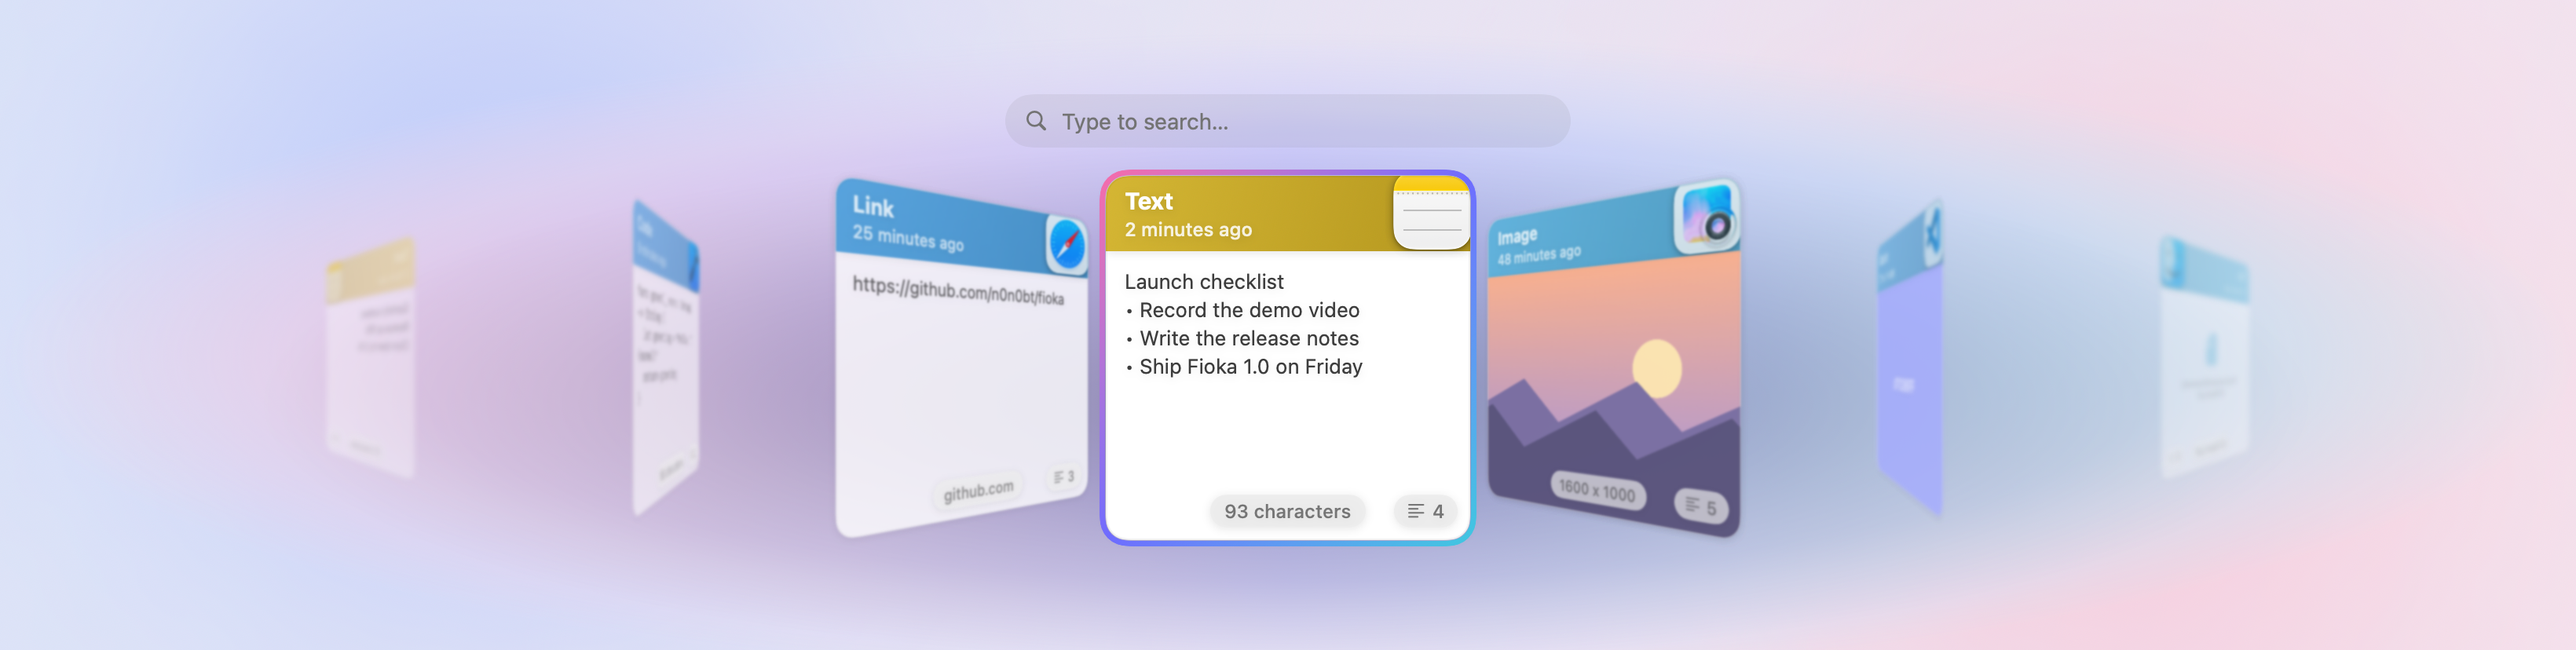
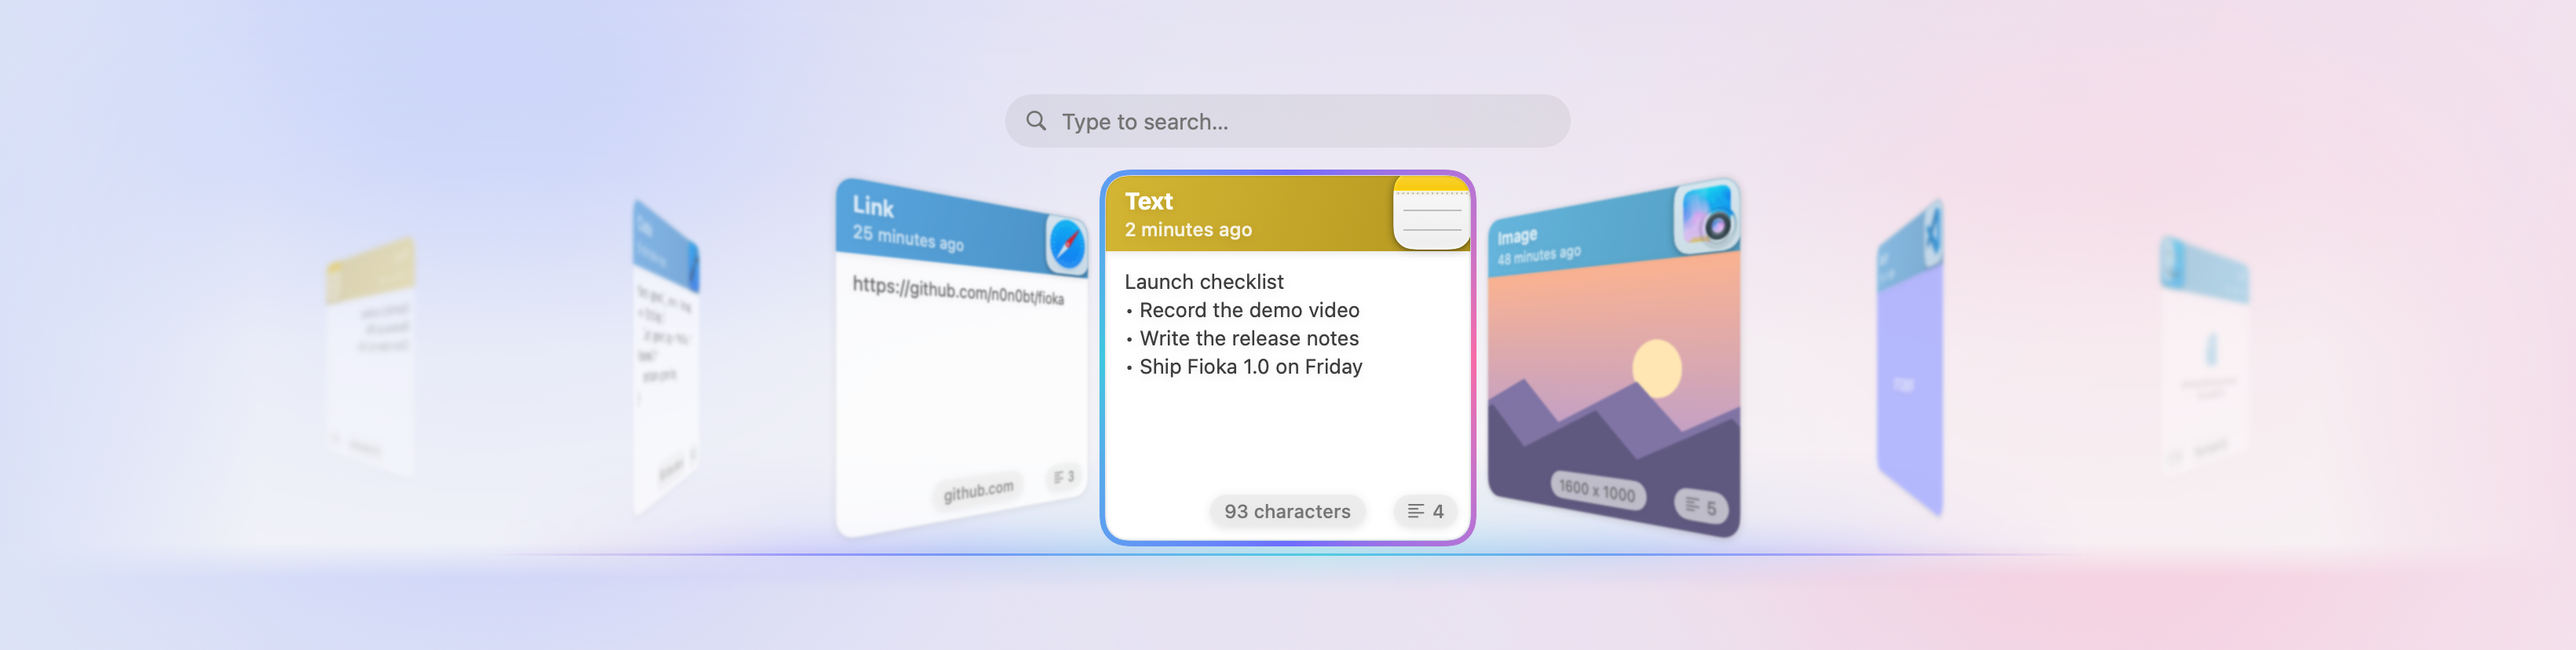
A shelf of light instead of a blob behind the drum; cards fan out on open
The drum's backdrop was an ellipse of frost and tint, which read as a
shape over whatever was behind. Now: a frost rising from the window's
bottom, and under the cards a thin line of light in the brand colours,
drifting slowly along it.

On open, the cards fan out from the front one, nearer cards first. The
selection ring's gradient turns slowly. The website's drum gets the same
shelf and ring.

Changed region(s): [[0.0933, 0.1812, 0.9329, 0.9662]]

diff --git a/Fioka/Views/DrumGlowView.swift b/Fioka/Views/DrumGlowView.swift
@@ -1,58 +1,120 @@
 import SwiftUI
 
-/// What sits behind the revolver: no panel, but a frosted backdrop that is
-/// solid behind the cards and fades to nothing before the window's edges on
-/// every side, tinted with the logo's colours. It calms whatever is behind
-/// (text, windows) without drawing a box.
+/// What sits behind the revolver. No panel and no shapes: a frost that rises
+/// from the bottom of the window and thins out upwards, and under the cards a
+/// thin line of light in the logo's colours, like a lit glass shelf, whose
+/// colours drift slowly along it.
 ///
-/// Elliptical gradient masks rather than blurred shapes: a blur spills past
-/// the window and its frame cuts it in a straight line; a mask that reaches
-/// clear at the frame's edge cannot. An `EllipticalGradient`'s locations run
-/// from the centre (0) to the frame's edge (1).
+/// Everything fades to clear before the window's edges, so nothing ends in a
+/// line where the window frame cuts it.
 struct DrumGlowView: View {
   /// Off-screen renders (the README and website images) get a painted frost:
   /// NSVisualEffectView blurs what is behind the window, so it draws nothing
-  /// in ImageRenderer.
+  /// in ImageRenderer. They also hold still.
   var painted = false
 
-  /// Fully opaque out to here, then fading to clear at the edge.
-  private static func fade(solidUntil solid: Double) -> some View {
-    EllipticalGradient(
+  @Environment(\.colorScheme) private var colorScheme
+  @State private var drifting = false
+
+  /// How far above the window's bottom the shelf runs: just under the front
+  /// card, whose bottom is CardCarouselView.bottomPadding up.
+  private static let shelfInset: CGFloat = CardCarouselView.bottomPadding - 10
+
+  var body: some View {
+    GeometryReader { geometry in
+      let width = min(geometry.size.width * 0.62, 1100)
+      ZStack(alignment: .bottom) {
+        frost
+          .mask { Self.rising }
+        shelf(width: width)
+          .padding(.bottom, Self.shelfInset)
+      }
+      .frame(width: geometry.size.width, height: geometry.size.height)
+    }
+    .allowsHitTesting(false)
+    .onAppear {
+      guard !painted else { return }
+      withAnimation(.easeInOut(duration: 10).repeatForever(autoreverses: true)) {
+        drifting = true
+      }
+    }
+  }
+
+  /// Clear at the top, solid from a little below the middle down; clear in
+  /// the last few points and at both sides.
+  private static var rising: some View {
+    LinearGradient(
       stops: [
-        .init(color: .black, location: 0),
-        .init(color: .black, location: solid),
-        .init(color: .black.opacity(0.7), location: (solid + 1) / 2),
+        .init(color: .clear, location: 0),
+        .init(color: .black.opacity(0.3), location: 0.3),
+        .init(color: .black.opacity(0.85), location: 0.6),
+        .init(color: .black, location: 0.94),
         .init(color: .clear, location: 1)
       ],
-      center: .init(x: 0.5, y: 0.55)
+      startPoint: .top,
+      endPoint: .bottom
+    )
+    .mask { sides(edge: 0.1) }
+  }
+
+  private static func sides(edge: Double) -> some View {
+    LinearGradient(
+      stops: [
+        .init(color: .clear, location: 0),
+        .init(color: .black, location: edge),
+        .init(color: .black, location: 1 - edge),
+        .init(color: .clear, location: 1)
+      ],
+      startPoint: .leading,
+      endPoint: .trailing
     )
   }
 
-  var body: some View {
-    ZStack {
-      // Frosted glass, as macOS's own panels use, fading out at the rim.
-      Group {
-        if painted {
-          Color(white: 0.97).opacity(0.86)
-        } else {
-          VisualEffectView(material: .popover, blendingMode: .behindWindow, state: .active)
-        }
-      }
-      .mask { Self.fade(solidUntil: 0.55) }
-
-      // The logo's colours over it.
-      LinearGradient(colors: [Brand.pink, Brand.violet, Brand.cyan], startPoint: .leading, endPoint: .trailing)
-        .opacity(0.4)
-        .mask { Self.fade(solidUntil: 0.38) }
-
-      // A soft shadow under the cards, so they lift off the frost.
-      EllipticalGradient(
-        stops: [.init(color: .black.opacity(0.28), location: 0), .init(color: .clear, location: 0.8)],
-        center: .init(x: 0.5, y: 0.62)
-      )
+  @ViewBuilder
+  private var frost: some View {
+    if painted {
+      Color(white: 0.97).opacity(0.8)
+    } else {
+      VisualEffectView(material: .popover, blendingMode: .behindWindow, state: .active)
     }
-    .frame(maxWidth: 1700, maxHeight: .infinity)
-    .frame(maxWidth: .infinity, maxHeight: .infinity)
-    .allowsHitTesting(false)
+  }
+
+  /// The logo's colours, twice over so they can slide along the line without
+  /// running out, fading in from both ends.
+  private func colours(width: CGFloat) -> some View {
+    LinearGradient(
+      colors: [Brand.pink, Brand.violet, Brand.cyan, Brand.violet, Brand.pink, Brand.violet, Brand.cyan],
+      startPoint: .leading,
+      endPoint: .trailing
+    )
+    .frame(width: width * 2)
+    .offset(x: drifting ? -width * 0.35 : width * 0.35)
+    .frame(width: width)
+    .clipped()
+    .mask { Self.sides(edge: 0.3) }
+  }
+
+  private func shelf(width: CGFloat) -> some View {
+    let dark = colorScheme == .dark
+    return ZStack(alignment: .bottom) {
+      // A faint wash of the same colours rising from the line.
+      colours(width: width)
+        .frame(height: 70)
+        .mask {
+          LinearGradient(colors: [.clear, .black], startPoint: .top, endPoint: .bottom)
+        }
+        .opacity(dark ? 0.22 : 0.16)
+      // The glow around the line.
+      colours(width: width)
+        .frame(height: 8)
+        .blur(radius: 10)
+        .opacity(dark ? 0.9 : 0.7)
+        .offset(y: 3)
+      // The line itself.
+      colours(width: width)
+        .frame(height: 1.5)
+        .opacity(dark ? 1 : 0.85)
+    }
+    .frame(width: width, height: 90, alignment: .bottom)
   }
 }

diff --git a/docs/style.css b/docs/style.css
@@ -222,18 +222,53 @@ h1 {
 }
 .js .drum { visibility: hidden; }
 
-/* The shadow pool under the cards, fading out well inside the hero. */
-.drum::before {
-  content: "";
+/* As in the app: no shapes behind the cards, just a thin line of light in
+   the brand colours under them, like a lit glass shelf, with a soft glow and
+   a faint wash rising from it. The colours drift along the line. */
+.drum-shelf {
   position: absolute;
   left: 50%;
-  top: 58%;
-  width: min(1400px, 110%);
-  height: 90%;
-  transform: translate(-50%, -50%);
-  background: radial-gradient(closest-side, rgb(23 21 31 / 0.2), rgb(23 21 31 / 0.08) 45%, transparent);
+  bottom: calc(var(--card) * 0.06 - 10px);
+  width: min(1100px, 62vw);
+  height: 70px;
+  transform: translateX(-50%);
   pointer-events: none;
-  z-index: -1;
+  z-index: 0;
+  -webkit-mask: linear-gradient(90deg, transparent, #000 30%, #000 70%, transparent);
+  mask: linear-gradient(90deg, transparent, #000 30%, #000 70%, transparent);
+}
+.drum-shelf::before,
+.drum-shelf::after,
+.drum-shelf span {
+  content: "";
+  position: absolute;
+  left: 0;
+  right: 0;
+  bottom: 0;
+  background: linear-gradient(90deg, var(--pink), var(--violet), var(--cyan), var(--violet), var(--pink), var(--violet), var(--cyan));
+  background-size: 200% 100%;
+  animation: shelf-drift 20s ease-in-out infinite alternate;
+}
+/* The wash. */
+.drum-shelf::before {
+  top: 0;
+  opacity: 0.16;
+  -webkit-mask: linear-gradient(transparent, #000);
+  mask: linear-gradient(transparent, #000);
+}
+/* The glow. */
+.drum-shelf span {
+  height: 8px;
+  bottom: -3px;
+  filter: blur(10px);
+  opacity: 0.7;
+}
+/* The line. */
+.drum-shelf::after { height: 1.5px; opacity: 0.85; }
+
+@keyframes shelf-drift {
+  from { background-position: 0% 0; }
+  to { background-position: 100% 0; }
 }
 
 .drum-search {
@@ -286,7 +321,8 @@ h1 {
   inset: -1.72%;
   padding: 1.51%;
   border-radius: 7.76%;
-  background: linear-gradient(135deg, var(--pink), var(--violet), var(--cyan));
+  background: conic-gradient(from var(--ring-turn), var(--pink), var(--violet), var(--cyan), var(--violet), var(--pink));
+  animation: ring-turn 6s linear infinite;
   -webkit-mask: linear-gradient(#000 0 0) content-box, linear-gradient(#000 0 0);
   -webkit-mask-composite: xor;
   mask: linear-gradient(#000 0 0) content-box exclude, linear-gradient(#000 0 0);
@@ -295,6 +331,18 @@ h1 {
   pointer-events: none;
 }
 .drum-card.front::after { opacity: 1; }
+
+/* The ring's colours go round, slowly, as in the app. */
+@property --ring-turn {
+  syntax: "<angle>";
+  inherits: false;
+  initial-value: 0deg;
+}
+@keyframes ring-turn { to { --ring-turn: 360deg; } }
+
+@media (prefers-reduced-motion: reduce) {
+  .drum-shelf::before, .drum-shelf::after, .drum-shelf span, .drum-card::after { animation: none; }
+}
 .drum:focus-visible .drum-card.front::after { box-shadow: 0 0 0 6px rgb(110 107 255 / 0.25); }
 
 /* ---------- Features ---------- */

diff --git a/Fioka/Views/CardDrumView.swift b/Fioka/Views/CardDrumView.swift
@@ -19,6 +19,9 @@ struct CardDrumView: View {
   private static let turn: Double = 38
 
   @State private var scrollMonitor: Any?
+  /// 0 while the bar opens, with every card folded behind the front one;
+  /// 1 once they have fanned out onto the drum.
+  @State private var spread: Double = 1
   @State private var scrollAccumulator: CGFloat = 0
 
   private var items: [HistoryItemDecorator] {
@@ -57,12 +60,16 @@ struct CardDrumView: View {
       appState.navigator.isKeyboardNavigating = true
       if scenePhase == .active {
         appState.navigator.select(item: appState.history.unpinnedItems.first ?? appState.history.pinnedItems.first)
+        fanOut()
         startScrollMonitor()
       } else {
         stopScrollMonitor()
       }
     }
-    .onAppear(perform: startScrollMonitor)
+    .onAppear {
+      fanOut()
+      startScrollMonitor()
+    }
     .onDisappear(perform: stopScrollMonitor)
   }
 
@@ -89,13 +96,23 @@ struct CardDrumView: View {
             .onTapGesture { appState.navigator.select(item: item) }
         }
       }
-      .scaleEffect(1 - distance * 0.14)
-      .rotation3DEffect(.degrees(Double(-offset) * Self.turn), axis: (0, 1, 0), perspective: 0.55)
-      .opacity(1 - Double(distance) * 0.22)
+      .scaleEffect(1 - distance * 0.14 * spread)
+      .rotation3DEffect(.degrees(Double(-offset) * Self.turn * spread), axis: (0, 1, 0), perspective: 0.55)
+      .opacity((1 - Double(distance) * 0.22) * (isCentre ? 1 : spread))
       .blur(radius: distance * 0.6)
-      .offset(x: CGFloat(offset) * Self.spacing)
+      .offset(x: CGFloat(offset) * Self.spacing * spread)
+      // Nearer cards land first, so the drum deals itself out from the front.
+      .animation(.spring(response: 0.5, dampingFraction: 0.78).delay(Double(distance) * 0.05), value: spread)
       .zIndex(-Double(distance))
       .transition(.opacity)
+  }
+
+  /// Folds the cards behind the front one, then lets them fan out.
+  private func fanOut() {
+    var fold = Transaction()
+    fold.disablesAnimations = true
+    withTransaction(fold) { spread = 0 }
+    DispatchQueue.main.async { spread = 1 }
   }
 
   /// A drag across the drum spins it, one card per step.

diff --git a/Fioka/Views/CardItemView.swift b/Fioka/Views/CardItemView.swift
@@ -68,8 +68,7 @@ struct CardItemView: View {
     // Selection is a ring in the brand gradient, just outside the card.
     .overlay {
       if item.isSelected {
-        RoundedRectangle(cornerRadius: Self.cornerRadius + 4, style: .continuous)
-          .strokeBorder(Brand.gradient, lineWidth: 3.5)
+        SelectionRing(cornerRadius: Self.cornerRadius + 4)
           .padding(-4)
       }
     }
@@ -291,5 +290,28 @@ private struct PositionBadgeLabelStyle: LabelStyle {
         .font(.system(size: 12, weight: .medium).monospacedDigit())
     }
     .foregroundStyle(.secondary)
+  }
+}
+
+/// The selected card's ring: the logo's colours going round it, slowly, so the
+/// card in front feels lit rather than outlined.
+private struct SelectionRing: View {
+  var cornerRadius: CGFloat
+  @State private var turning = false
+
+  var body: some View {
+    // The gradient turns and the ring is cut out of it. Scaled up so its
+    // corners stay covered while it rotates.
+    AngularGradient(colors: [Brand.pink, Brand.violet, Brand.cyan, Brand.violet, Brand.pink], center: .center)
+      .scaleEffect(1.5)
+      .rotationEffect(.degrees(turning ? 360 : 0))
+      .mask {
+        RoundedRectangle(cornerRadius: cornerRadius, style: .continuous)
+          .strokeBorder(lineWidth: 3.5)
+      }
+      .allowsHitTesting(false)
+      .onAppear {
+        withAnimation(.linear(duration: 6).repeatForever(autoreverses: false)) { turning = true }
+      }
   }
 }

diff --git a/docs/index.html b/docs/index.html
@@ -11,7 +11,7 @@
   <meta property="og:url" content="https://n0n0bt.github.io/fioka/">
   <link rel="canonical" href="https://n0n0bt.github.io/fioka/">
   <link rel="icon" href="assets/favicon.png">
-  <link rel="stylesheet" href="style.css?v=11">
+  <link rel="stylesheet" href="style.css?v=12">
   <script>document.documentElement.classList.add("js")</script>
 </head>
 <body>
@@ -54,6 +54,7 @@
           <span>Type to search…</span>
         </div>
         <div class="drum-stage" id="drum-stage">
+          <div class="drum-shelf" aria-hidden="true"><span></span></div>
           <div class="drum-card" data-index="0"><img src="assets/drum/card-0.png" alt="Text from Notes, 2 minutes ago: Launch checklist. Record the demo video, write the release notes, ship Fioka 1.0 on Friday." width="252" height="252" draggable="false"></div>
           <div class="drum-card" data-index="1"><img src="assets/drum/card-1.png" alt="Code from Xcode, 9 minutes ago: a Swift function, greet." width="252" height="252" draggable="false"></div>
           <div class="drum-card" data-index="2"><img src="assets/drum/card-2.png" alt="Link from Safari, 25 minutes ago: github.com/n0n0bt/fioka." width="252" height="252" draggable="false"></div>

diff --git a/FiokaTests/ReadmeShowcaseTests.swift b/FiokaTests/ReadmeShowcaseTests.swift
@@ -64,7 +64,9 @@ class ReadmeShowcaseTests: XCTestCase {
     let readme = bar
       .padding(.horizontal, 44)
       .padding(.vertical, 44)
-      .background { DrumGlowView(painted: true) }
+      // Raised so its shelf of light runs under the cards, as in the app,
+      // rather than along the bottom of this image's extra margin.
+      .background { DrumGlowView(painted: true).padding(.bottom, 46) }
       .fixedSize()
     try write(readme.background { wallpaper.clipped() }, to: "card-bar.png")
 

diff --git a/CLAUDE.md b/CLAUDE.md
@@ -84,10 +84,15 @@ front, ±3 neighbours sit on a drum (rotated, scaled, faded), only the front car
 takes clicks and a click on a side card turns to it; ←/→, drags and scroll-wheel
 (local `NSEvent` monitor) spin it. `CardCarouselView`, the flat strip, is behind
 `defaults write com.naumchedev.fioka cardDrum -bool false`. Both render
-`CardItemView`. The drum has no panel: `DrumGlowView` (a shadow pool
-plus a brand-colour glow) replaces `PanelBackdropView`, and `FloatingPanel`
+`CardItemView`. The drum has no panel: `DrumGlowView` (a frost rising from
+the window's bottom, and under the cards a thin line of light in the brand
+colours that drift along it; no blobs or ellipses, which read as a shape
+over whatever is behind) replaces `PanelBackdropView`, and `FloatingPanel`
 drops its rounded clip and window shadow, so the window is clear. It does not
-wrap: it opens on the newest with nothing to its left (`CardDrumView.offset`). Selection and keyboard navigation still go through `NavigationManager`, whose `highlightNext`/`highlightPrevious` are direction-agnostic — left/right arrows are mapped onto them in `KeyChord`, alongside up/down.
+wrap: it opens on the newest with nothing to its left (`CardDrumView.offset`).
+On open the cards fan out from the front one (`spread`, nearer cards first),
+and the selection ring's gradient turns slowly (`SelectionRing` in
+`CardItemView`). Selection and keyboard navigation still go through `NavigationManager`, whose `highlightNext`/`highlightPrevious` are direction-agnostic — left/right arrows are mapped onto them in `KeyChord`, alongside up/down.
 
 ### Card actions
 
